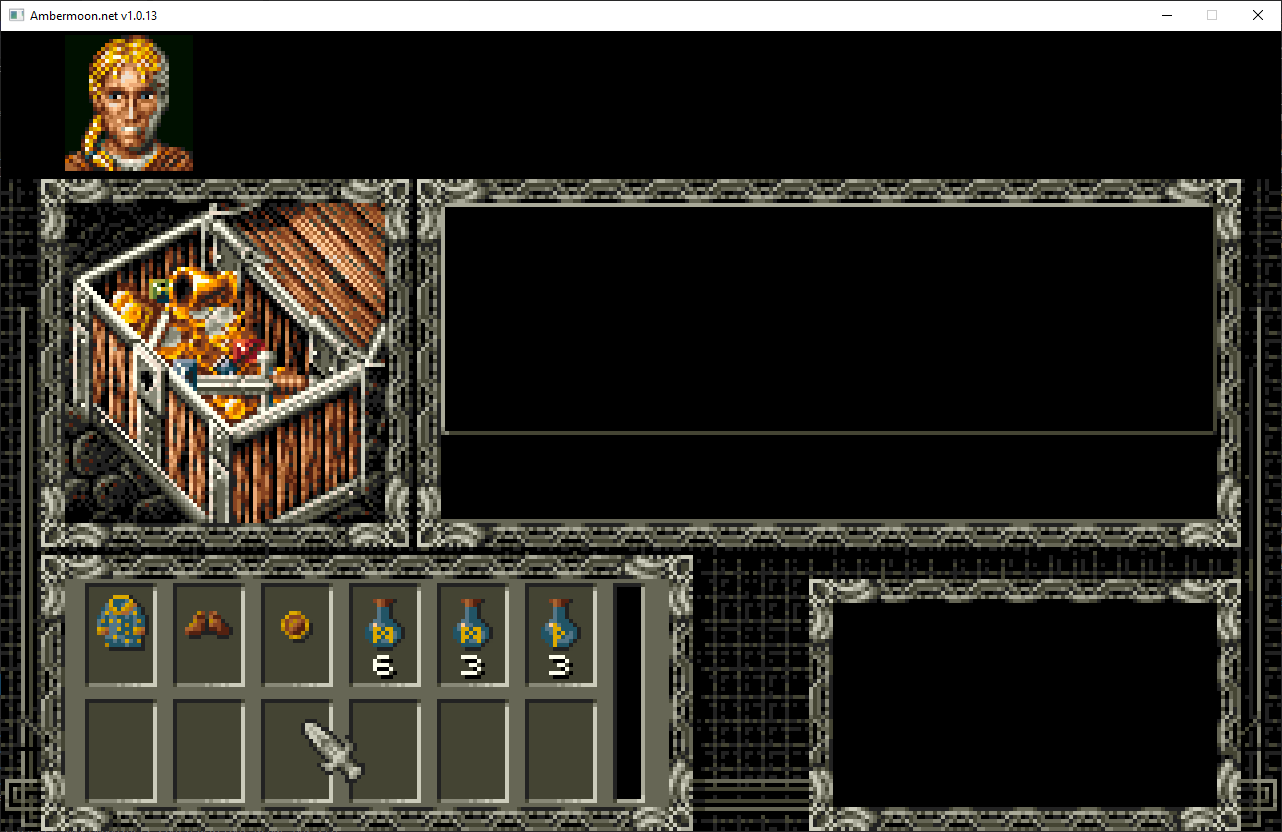
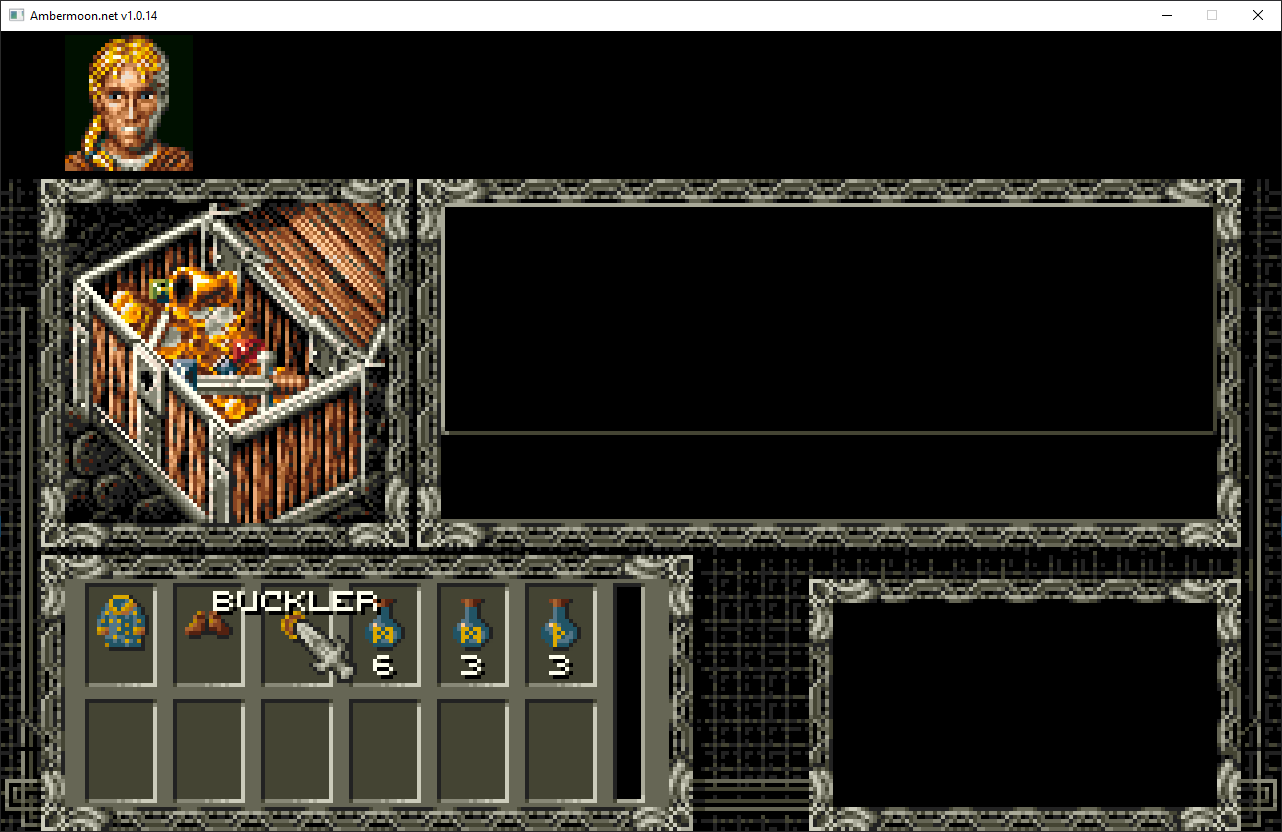
This is v1.0.14

diff --git a/README.md b/README.md
@@ -1,5 +1,7 @@
 # Ambermoon.net
 
+Version 1.0.14 brings items and inventory to the game. Even drag&drop works. Missing is the ability to equip items or drag only a partial amount.
+
 Version 1.0.13 is out now. It has a bunch of new features like:
 - Smooth moving with the mouse (arrow cursors)
 - Fading effect for map transitions
@@ -23,9 +25,9 @@ I got some questions of how to run the game:
 
 Version | OS
 --- | ---
+[1.0.14](https://github.com/Pyrdacor/Ambermoon.net/releases/download/v1.0.14/Ambermoon.net-Windows.zip) | Windows 64bit
 [1.0.13](https://github.com/Pyrdacor/Ambermoon.net/releases/download/v1.0.13/Ambermoon.net-Windows.zip) | Windows 64bit
 [1.0.12](https://github.com/Pyrdacor/Ambermoon.net/releases/download/v1.0.12/Ambermoon.net-Windows.zip) | Windows 64bit
-[1.0.11](https://github.com/Pyrdacor/Ambermoon.net/releases/download/v1.0.11/Ambermoon.net-Windows.zip) | Windows 64bit
 
 Older releases can be found [here](https://github.com/Pyrdacor/Ambermoon.net/releases). Other platforms will follow.
 
@@ -67,8 +69,9 @@ Working things:
 ![3D map rendering 1](https://github.com/Pyrdacor/Ambermoon.net/raw/master/Screenshots/Map3D1.png "3D map rendering 1")
 ![3D map rendering 2](https://github.com/Pyrdacor/Ambermoon.net/raw/master/Screenshots/Map3D2.png "3D map rendering 2")
 ![Billboards](https://github.com/Pyrdacor/Ambermoon.net/raw/master/Screenshots/Billboards1.png "Billboards")
-![Text rendering](https://github.com/Pyrdacor/Ambermoon.net/raw/master/Screenshots/TextRendering.png "Text rendering")
 ![Chests](https://github.com/Pyrdacor/Ambermoon.net/raw/master/Screenshots/Chests.png "Chests")
+![Inventory](https://github.com/Pyrdacor/Ambermoon.net/raw/master/Screenshots/Inventory.png "Inventory")
+![Text rendering](https://github.com/Pyrdacor/Ambermoon.net/raw/master/Screenshots/TextRendering.png "Text rendering")
 
 
 ## Controls
@@ -89,6 +92,7 @@ F1-F6 | Open inventory of party member 1-6
 
 ## Change log
 
+- Version 1.0.14: Added inventory and item drag&drop
 - Version 1.0.13: Moving with mouse, map transition fading effect, chest items, change tile events, portraits, initial savegame used
 - Version 1.0.12: Added cursors, added first version of chest map events
 - Version 1.0.11: Fixed map changes, world map now uses a smaller sprite (not the correct yet)
